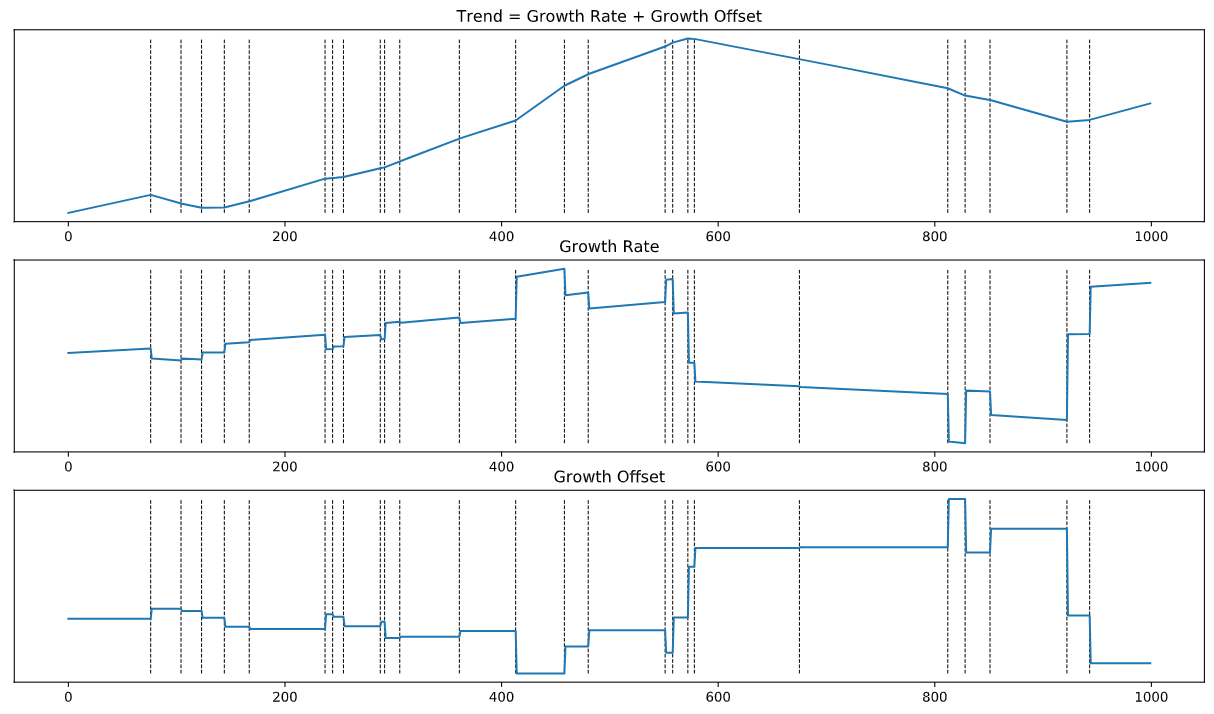
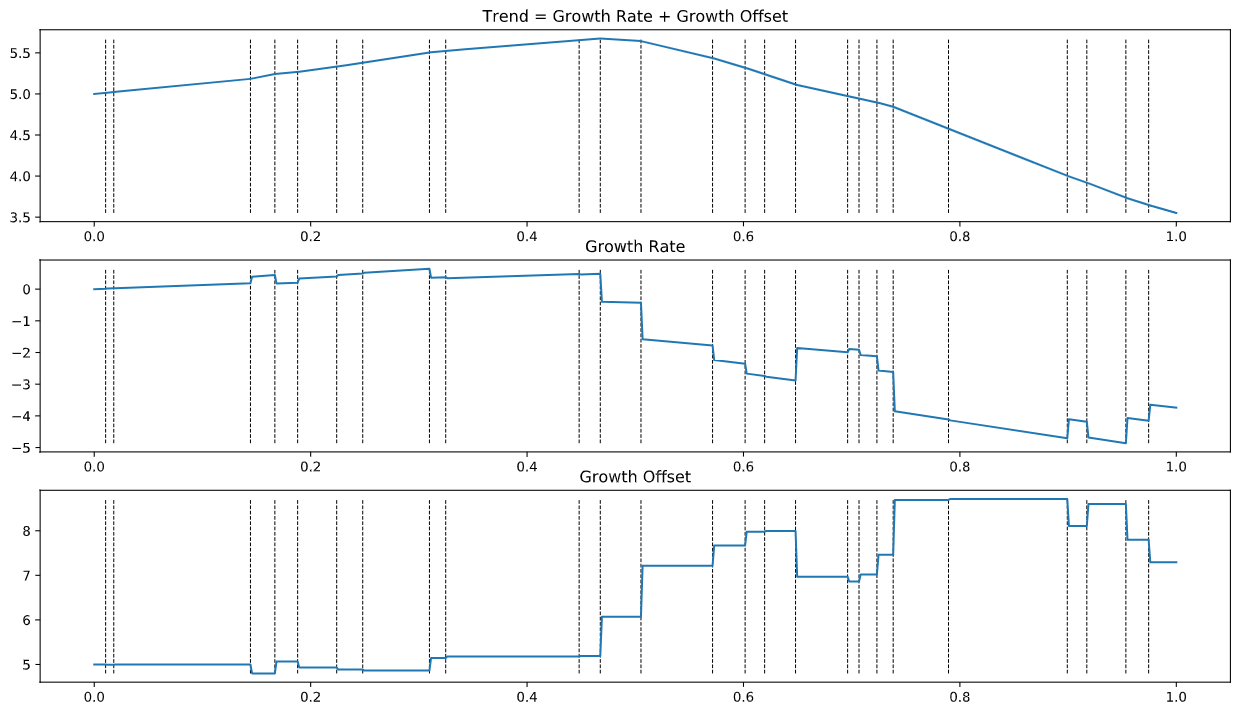
new post 9-18-20

diff --git a/_posts/2020-09-18-fbprophet_bayesian_glm.md b/_posts/2020-09-18-fbprophet_bayesian_glm.md
@@ -173,7 +173,7 @@ The effect of priors' scaling values will be demonstrated in our work later on, 
 We now explore their relative meanings & dimensions in our trend model:
 
 - $$\boldsymbol{k}$$ [*1-Dimensional*] = Growth Rate
-- $$\boldsymbol{m}$$ [*1-Dimensional*] = Growth Offset
+- $$\boldsymbol{m}$$ [*1-Dimensional*] = Growth Offset (or the "intercept" value)
 - $$\boldsymbol{\delta}$$ [*N-Dimensional*] = Growth Rate Changepoints Adjustments
 
 Notice how while $$k$$ and $$m$$ are 1 dimensional, or simply as constants, $$\delta$$ is an $$N$$ dimensional variable, where such *integer* value $$N$$ is also a hyper-parameter, though not as important as scales (as advised by Facebook), for tuning.
@@ -234,8 +234,8 @@ import numpy as np
 ```
 
 ```python
-# GIVEN & ASSIGNED
-t = np.arange(1000) #---| timesteps (though as integers for demonstration, this is scaled between (0,1) while fitting in fbprophet)
+# timestamps & hyperparams 
+t = np.linspace(0,1,666) #---| numeric timestep (scaled from stamps given)
 n_changepoints = 25 #---| establish the amount of changepoints in our timesteps
 
 # PRIORS
@@ -250,7 +250,7 @@ A = (t[:, None] > s) * 1 #---| Determining Matrix (*1 turns booleans into 1 & 0)
 gamma = -s * delta #----| Changepoints Adjustment for Growth Offset (m-term)
 
 
-# FINALIZE
+# LINEAR TREND FINALIZE
 growth = (k + np.dot(A,delta)) * t #---| Growth Rate (k-term)
 offset = m + np.dot(A,gamma) #---| Growth Offset (m-term)
 trend = growth + offset
@@ -260,17 +260,16 @@ plt.figure(figsize=(16, 9))
 #----| 3 subplots indexing
 n = 310
 i = 0
-for t, f in zip(['Trend = Growth Rate + Growth Offset','Growth Rate', 'Growth Offset'],
+for title, f in zip(['Trend = Growth Rate + Growth Offset','Growth Rate', 'Growth Offset'],
                 [trend, growth, offset]):
     i += 1
     plt.subplot(n + i)
-    plt.title(t)
-    plt.yticks([])
+    plt.title(title)
     plt.vlines(s, min(f), max(f), lw=0.75, linestyles='--')
-    plt.plot(f)
+    plt.plot(t,f)
 ```
 
-<img src="https://jp-quant.github.io/images/glm_bayesian/demo_1.png">
+<img src="https://jp-quant.github.io/images/glm_bayesian/demo_1.png" style="background-color: white;">
 
 Notice how the full Trend as an addition of Growth Rate & Offsets is basically a piece-wise regression of such pair of components, where the defined $$N$$ amount of changepoints (n_changepoints) resulted in our $$\delta$$ dictating the multiplicative magnitude of our two terms at those $$N$$ specific changepoints in numeric timesteps $$\boldsymbol{t}$$.
 
